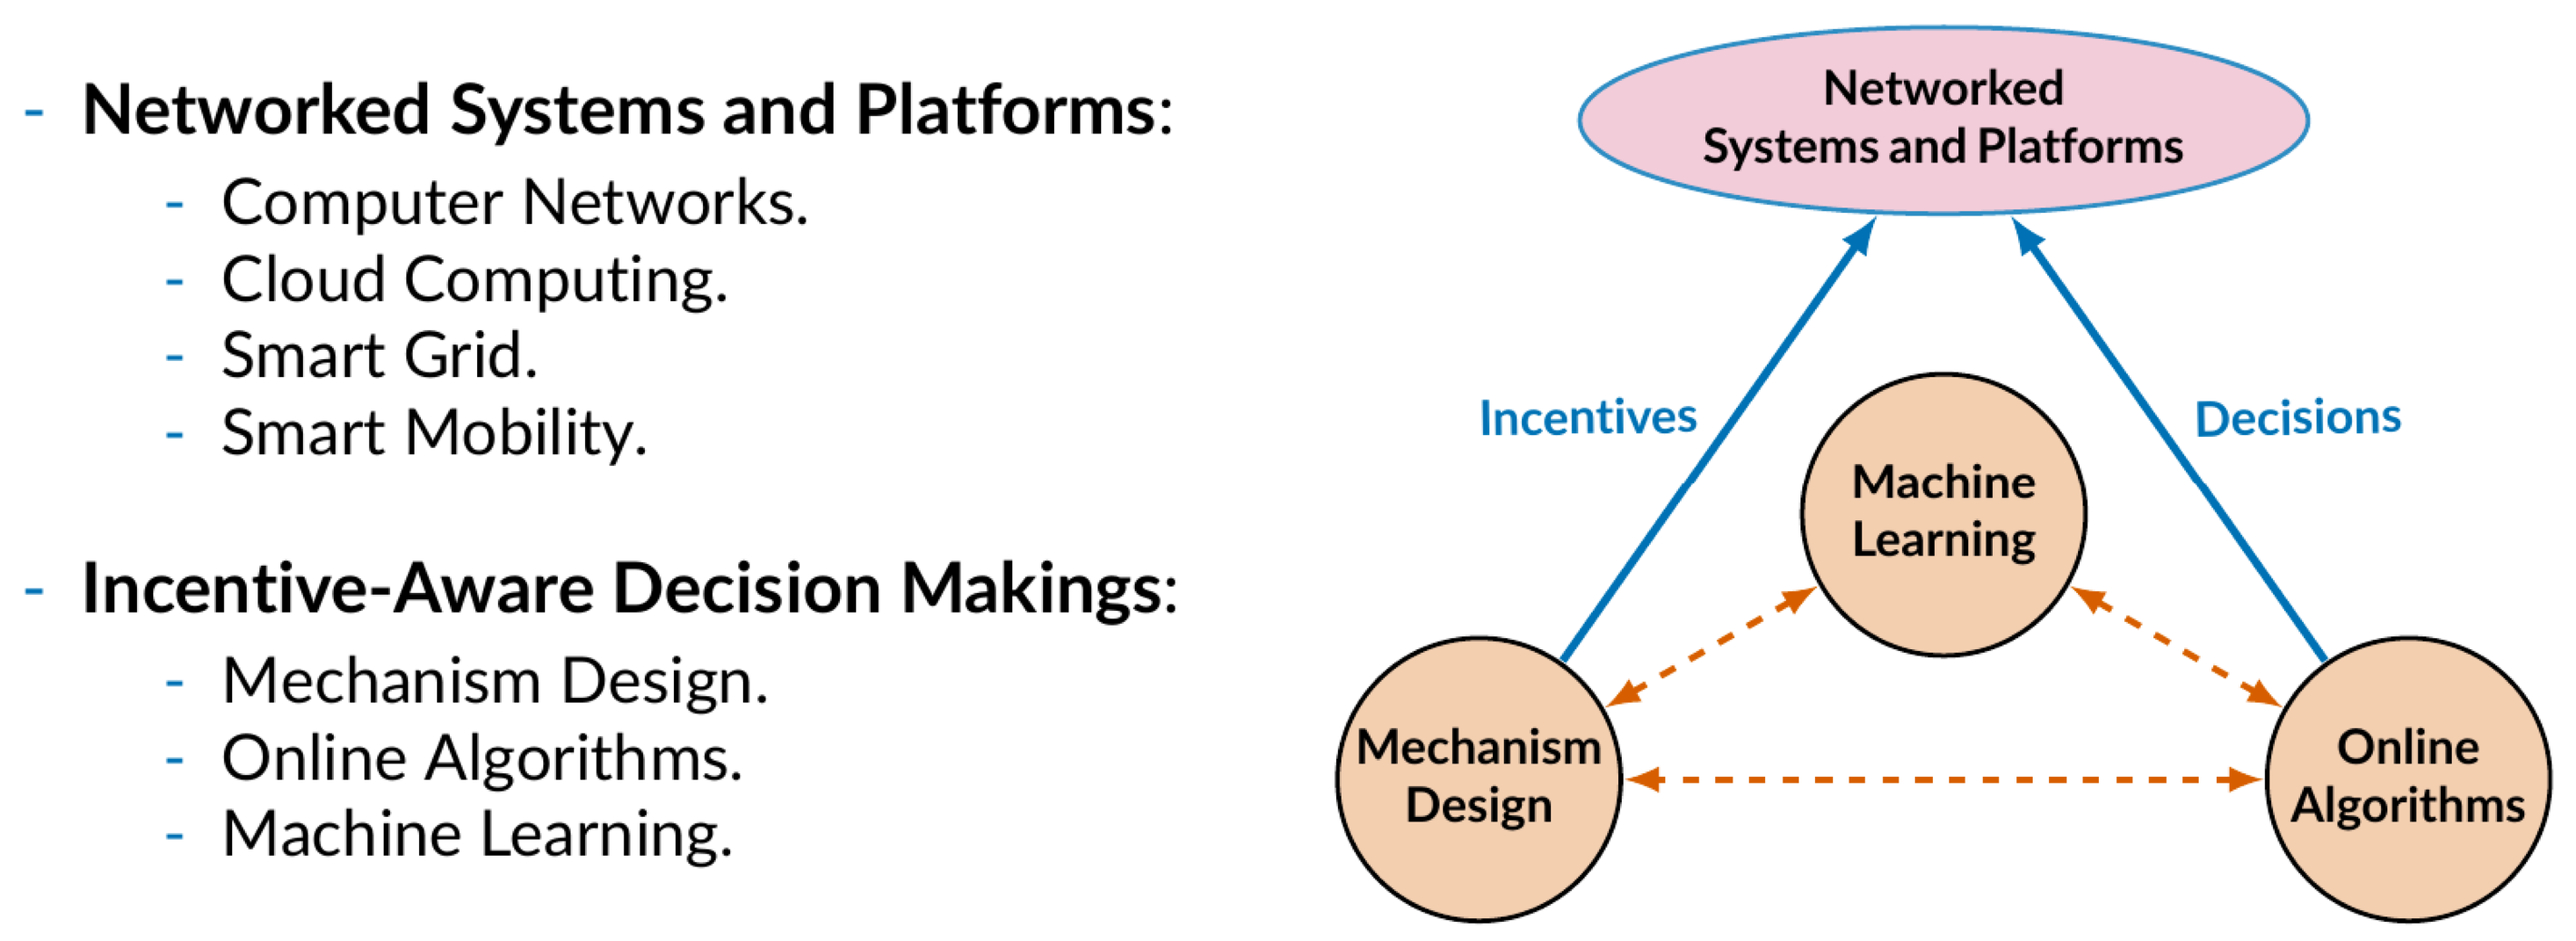
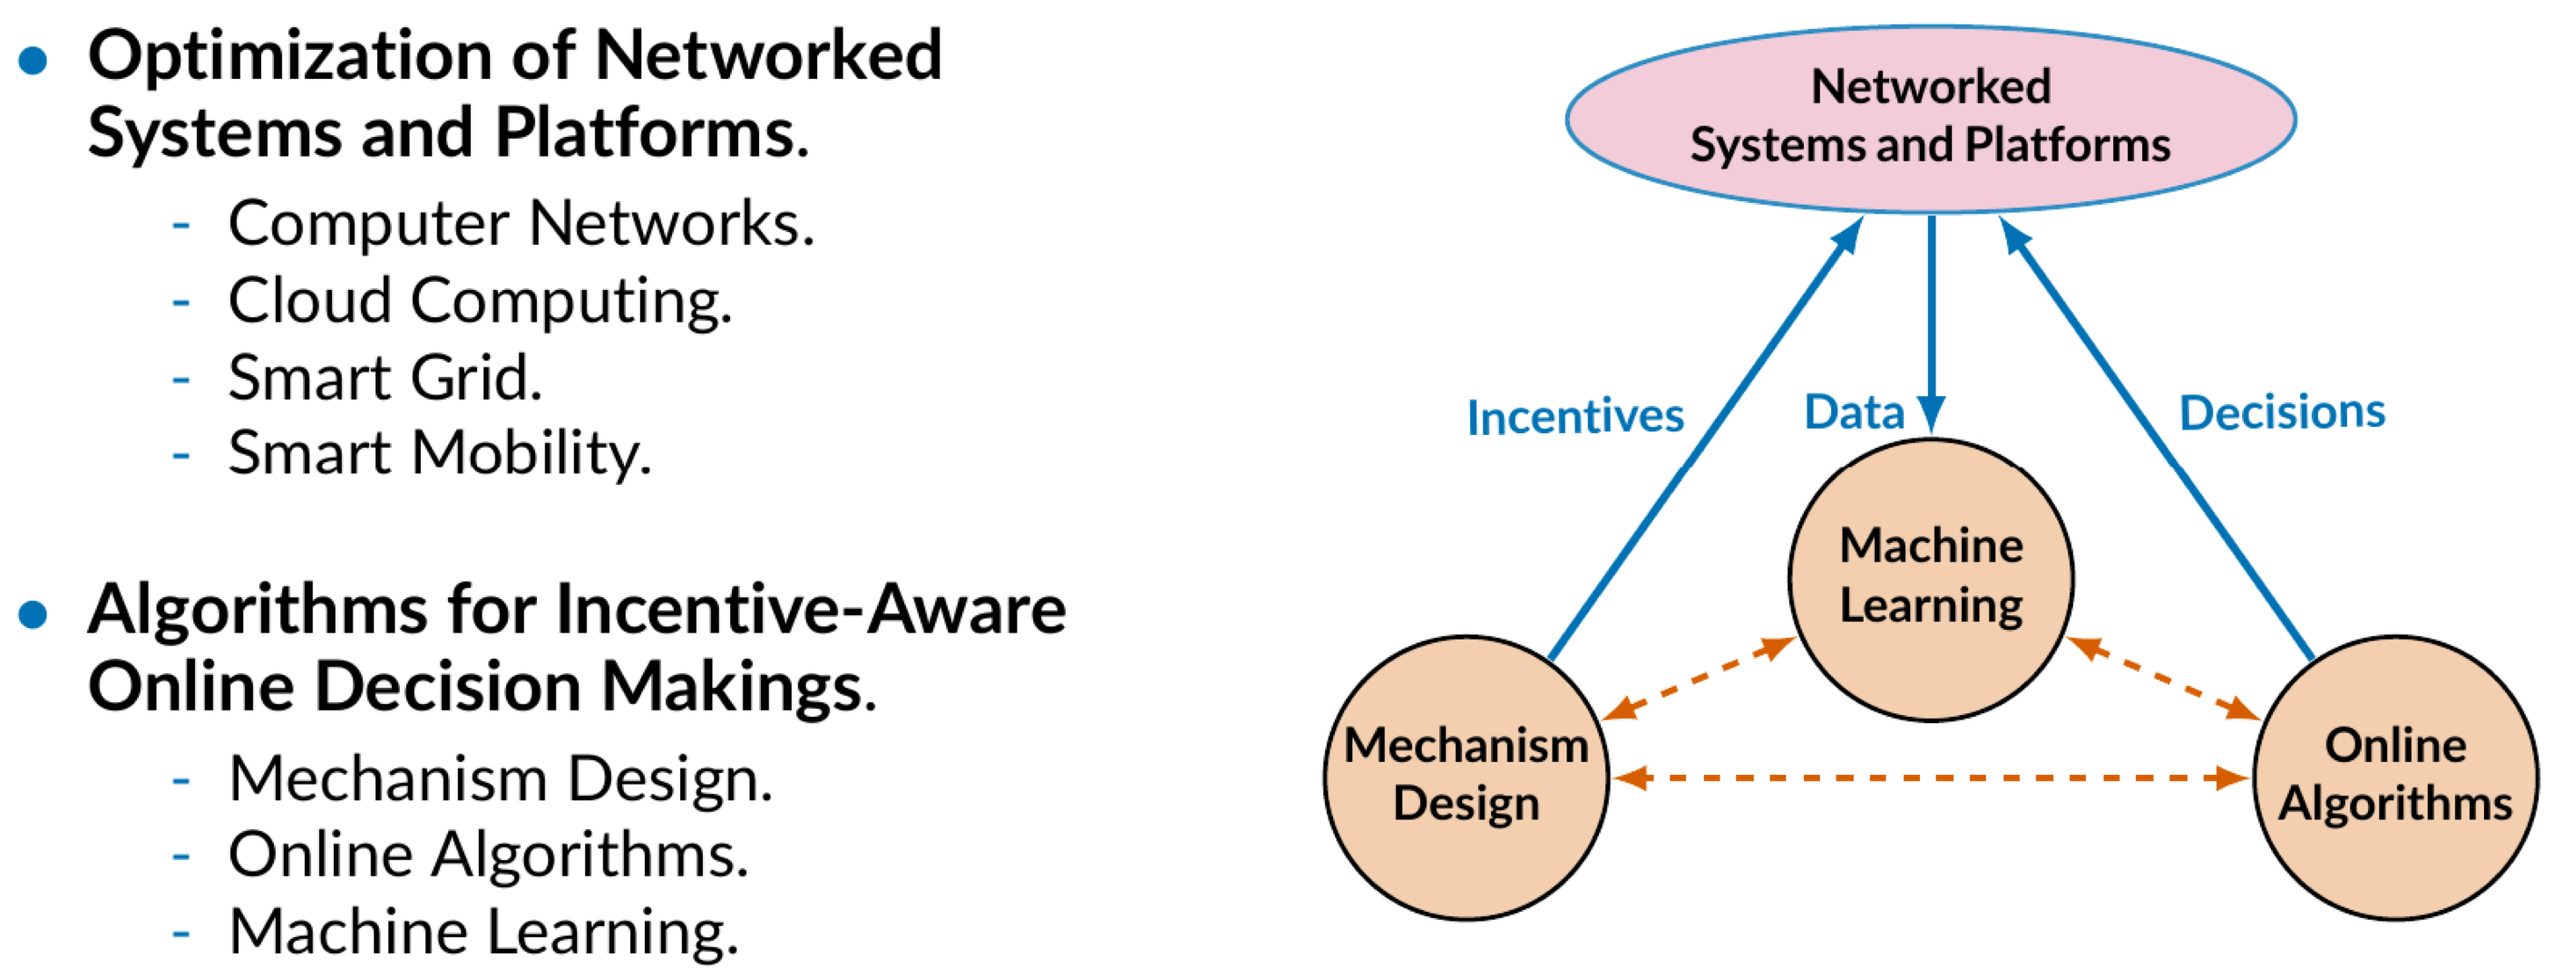
20191215

diff --git a/content/research/incentives.md b/content/research/incentives.md
@@ -5,10 +5,10 @@
 widget = "pages"  # See https://sourcethemes.com/academic/docs/page-builder/
 headless = true  # This file represents a page section.
 active = true  # Activate this widget? true/false
-weight = 10  # Order that this section will appear.
+weight = 20  # Order that this section will appear.
 
-title = "Incentive-Aware Decision Makings"
-subtitle = "Online Algorithms, Mechanism Design and Machine Learning"
+title = "Incentive-Aware Online Decision Makings"
+# subtitle = "Online Algorithms, Mechanism Design and Machine Learning"
 
 
 
@@ -17,7 +17,7 @@ subtitle = "Online Algorithms, Mechanism Design and Machine Learning"
   page_type = "publication"
   
   # Choose how much pages you would like to display (0 = all pages)
-  count = 3
+  count = 1
   
   # Choose how many pages you would like to offset by
   offset = 0
@@ -27,7 +27,7 @@ subtitle = "Online Algorithms, Mechanism Design and Machine Learning"
 
   # Filter posts by a taxonomy term.
   [content.filters]
-    tag = "Incentives"
+    tag = "NA"
     category = ""
     publication_type = ""
     exclude_featured = false
@@ -71,19 +71,20 @@ subtitle = "Online Algorithms, Mechanism Design and Machine Learning"
 # {{% alert note %}} 
 # Quickly discover relevant content by [filtering publications]({{< ref "/publication/_index.md" >}}).
 # {{% /alert %}}
+
+# Recent Publications:
 +++
 
 
 I study incentive-aware decision making based on online algorithms, mechanism design and machine learning. In particular, I focus on designing sequential decision making algorithms when there is no complete information of future. Moreover, such sequential decision making problems can be substaintially challenged if there exist multiple agents with self-interested behaviors. 
 
-{{< figure library="true" src="research_overview.png" title="" lightbox="true" >}}
+### [Online Mechanism Design](/tags/incentives)
+Mechanism design is concerned about designing a protocol that can implement a game. Online mechanism design sits at the intersection between mechanism design and online algorithm, where decisions must be made in an online fashion with incomplete future information. Posted-Price Mechanisms. Mechanism design is concerned about designing a protocol that can implement a game. Online mechanism design sits at the intersection between mechanism design and online algorithm, where decisions must be made in an online fashion with incomplete future information. Online Combinatorial Auctions. Mechanism design is concerned about designing a protocol that can implement a game. Online mechanism design sits at the intersection between mechanism design and online algorithm, where decisions must be made in an online fashion with incomplete future information.
 
-- **Online Mechanism Design**. Mechanism design is concerned about designing a protocol that can implement a game. Online mechanism design sits at the intersection between mechanism design and online algorithm, where decisions must be made in an online fashion with incomplete future information. Posted-Price Mechanisms. Mechanism design is concerned about designing a protocol that can implement a game. Online mechanism design sits at the intersection between mechanism design and online algorithm, where decisions must be made in an online fashion with incomplete future information. Online Combinatorial Auctions. Mechanism design is concerned about designing a protocol that can implement a game. Online mechanism design sits at the intersection between mechanism design and online algorithm, where decisions must be made in an online fashion with incomplete future information.
+### [Auctions via Online Learning](/tags/incentives)
+Mechanism design is concerned about designing a protocol that can implement a game. Online mechanism design sits at the intersection between mechanism design and online algorithm, where decisions must be made in an online fashion with incomplete future information. 
 
-- **Auctions via Online Learning**. Mechanism design is concerned about designing a protocol that can implement a game. Online mechanism design sits at the intersection between mechanism design and online algorithm, where decisions must be made in an online fashion with incomplete future information. 
-
-- **Multi-Agent Reinforcement Learning**. Reinforcement learning is concerned about making sequential decisions under uncertainty based on the theory of Markov Decision Process. For 
+### [Multi-Agent Reinforcement Learning](/tags/incentives)
+Reinforcement learning is concerned about making sequential decisions under uncertainty based on the theory of Markov Decision Process. For 
 
 {{< figure library="true" src="competitive_ratio.png" title="Achieveable regions of competitive ratios of the proposed online algorithm under three cases" lightbox="true" >}}
-
-**Recent Publications**:

diff --git a/content/research/applications.md b/content/research/applications.md
@@ -5,10 +5,10 @@
 widget = "pages"  # See https://sourcethemes.com/academic/docs/page-builder/
 headless = true  # This file represents a page section.
 active = true  # Activate this widget? true/false
-weight = 20  # Order that this section will appear.
+weight = 10  # Order that this section will appear.
 
 title = "Networked Systems and Platforms"
-subtitle = "Computer Networks, Cloud Computing, Smart Grid and Smart Mobility"
+# subtitle = "Computer Networks, Cloud Computing, Smart Grid and Smart Mobility"
 
 
 
@@ -27,7 +27,7 @@ subtitle = "Computer Networks, Cloud Computing, Smart Grid and Smart Mobility"
 
   # Filter posts by a taxonomy term.
   [content.filters]
-    tag = "Communication Networks"
+    tag = ""
     category = ""
     publication_type = ""
     exclude_featured = false
@@ -48,7 +48,7 @@ subtitle = "Computer Networks, Cloud Computing, Smart Grid and Smart Mobility"
   #   Any HTML color name or Hex value is valid.
     
   # Background color.
-  # color = "navy"
+  # color = "white"
   
   # Background gradient.
   # gradient_start = "DeepSkyBlue"
@@ -75,14 +75,26 @@ subtitle = "Computer Networks, Cloud Computing, Smart Grid and Smart Mobility"
 
 My research centers around resource allocation and scheduling in networked systems and platforms, where self-interested agents may appear sequentially, interact and possibly pursue conflicting objectives in the presence of dynamics, ranging from network connectivity to resource availability. Typical examples of such systems include:
 
-- **Computer Networks**: the computer and communication networks have 
+### [Computer Networks](/tags/networking)
+
+The computer and communication networks have 
 
 {{< figure library="true" src="network_routing.png" title="A caption" lightbox="true" >}}
 
-- **Cloud Computing**: placing computing-intensive tasks at a centralized cloud has been proven not only efficient in the computational point of view, but also ecconomically. 
+### [Cloud Computing](/tags/cloud-computing)
 
-- **Smart Grid**: the power grid is undergoing a dramatic transformation...
+Placing computing-intensive tasks at a centralized cloud has been proven not only efficient in the computational point of view, but also ecconomically. 
 
-- **Smart Mobility**: the power grid is undergoing a dramatic transformation...
 
-**Recent Publications**:
+### [Smart Grid](/tags/smart-grid)
+
+The power grid is undergoing a dramatic transformation...
+
+
+### [Smart Mobility](/tags/networking)
+
+The power grid is undergoing a dramatic transformation...
+
+{{< figure library="true" src="three_layer_smart_cities.png" title="A caption" lightbox="true" >}}
+
+## Recent Publications:

diff --git a/content/talk/CASCON_2018/index.md b/content/talk/CASCON_2018/index.md
@@ -1,0 +1,71 @@
+---
+title: "Enabling Intelligent Decision Making in Smart Cities"
+event: XXX XXX XXX
+event_url: https://xxxx.org
+
+location: XXX University, XXX, XXX
+address:
+  street: 360 XXX XXX
+  city: XXX
+  region: XXX
+  postcode: 'XXXX'
+  country: XXX XXX
+
+summary: An example talk using Academic's Markdown slides feature.
+abstract: "Lorem ipsum dolor sit amet, consectetur adipiscing elit. Duis posuere tellusac convallis placerat. Proin tincidunt magna sed ex sollicitudin condimentum. Sed ac faucibus dolor, scelerisque sollicitudin nisi. Cras purus urna, suscipit quis sapien eu, pulvinar tempor diam."
+
+# Talk start and end times.
+#   End time can optionally be hidden by prefixing the line with `#`.
+date: "2018-08-06T13:00:00Z"
+date_end: "2018-08-07T15:00:00Z"
+all_day: false
+
+# Schedule page publish date (NOT talk date).
+publishDate: "2018-09-01T00:00:00Z"
+
+authors: [Xiaoqi Tan]
+tags: []
+
+# Is this a featured talk? (true/false)
+featured: true
+
+image:
+  caption: 'Image credit: [**Unsplash**](https://unsplash.com/photos/bzdhc5b3Bxs)'
+  focal_point: Right
+
+links:
+url_code: ""
+url_pdf: "https://xiaoqitan.org/document/slides/"
+url_slides: "https://xiaoqitan.org/document/slides/"
+url_video: "https://xiaoqitan.org/document/slides/"
+
+# Markdown Slides (optional).
+#   Associate this talk with Markdown slides.
+#   Simply enter your slide deck's filename without extension.
+#   E.g. `slides = "example-slides"` references `content/slides/example-slides.md`.
+#   Otherwise, set `slides = ""`.
+slides: example
+
+# Projects (optional).
+#   Associate this post with one or more of your projects.
+#   Simply enter your project's folder or file name without extension.
+#   E.g. `projects = ["internal-project"]` references `content/project/deep-learning/index.md`.
+#   Otherwise, set `projects = []`.
+projects:
+- internal-project
+
+# Enable math on this page?
+math: true
+---
+
+{{% alert note %}}
+Click on the **Slides** button above to view the built-in slides feature.
+{{% /alert %}}
+
+Slides can be added in a few ways:
+
+- **Create** slides using Academic's [*Slides*](https://sourcethemes.com/academic/docs/managing-content/#create-slides) feature and link using `slides` parameter in the front matter of the talk file
+- **Upload** an existing slide deck to `static/` and link using `url_slides` parameter in the front matter of the talk file
+- **Embed** your slides (e.g. Google Slides) or presentation video on this page using [shortcodes](https://sourcethemes.com/academic/docs/writing-markdown-latex/).
+
+Further talk details can easily be added to this page using *Markdown* and $\rm \LaTeX$ math code.

diff --git a/content/research/slider.md b/content/research/slider.md
@@ -2,7 +2,7 @@
 # Slider widget.
 widget = "slider"  # See https://sourcethemes.com/academic/docs/page-builder/
 headless = true  # This file represents a page section.
-active = true  # Activate this widget? true/false
+active = false  # Activate this widget? true/false
 weight = 2  # Order that this section will appear.
 
 # Slide interval.
@@ -51,7 +51,16 @@ height = ""
 #  overlay_filter = 0 # Darken the image. Value in range 0-1.
 
 [[item]]
-  title = "**Incentive-Aware Online Decision Makings**"
+  title = "**Networked Systems and Platforms**"
+  # content = "Computer Networks, Cloud Computing, Smart Grid, and Smart Mobility."
+  align = "center"
+
+  overlay_color = "#333"  # An HTML color value.
+  overlay_img = "algorithms.jpg"  # Image path relative to your `static/img/` folder.
+  overlay_filter = 0.8 # Darken the image. Value in range 0-1.
+
+[[item]]
+  title = "**Online Mechanism Design**"
   # content = "Online Algorithms, Mechanism Design, and Machine Learning"
   align = "center"
 
@@ -60,7 +69,7 @@ height = ""
   overlay_filter = 0.8 # Darken the image. Value in range 0-1.
 
 [[item]]
-  title = "**Optimization of Networked Systems and Platforms**"
+  title = "**Online Auctions via Online Learning**"
   # content = "Communication Networks, Cloud Computing and Smart Grid"
   align = "center"  # Choose `center`, `left`, or `right`.
 
@@ -70,4 +79,14 @@ height = ""
   overlay_img = "networks.jpg"  # Image path relative to your `static/img/` folder.
   overlay_filter = 0.7  # Darken the image. Value in range 0-1.
 
+[[item]]
+  title = "**Multi-Agent Reinforcement Learning**"
+  # content = "Communication Networks, Cloud Computing and Smart Grid"
+  align = "center"  # Choose `center`, `left`, or `right`.
+
+  # Overlay a color or image (optional).
+  # Deactivate an option by commenting out the line, prefixing it with `#`.
+  overlay_color = "#666"  # An HTML color value.
+  overlay_img = "networks.jpg"  # Image path relative to your `static/img/` folder.
+  overlay_filter = 0.7  # Darken the image. Value in range 0-1.
 +++

diff --git a/content/authors/admin/_index.md b/content/authors/admin/_index.md
@@ -107,4 +107,4 @@ I am currently a Postdoctoral Fellow at the Dept. of Electrical & Computer Engin
 
 I received my Ph.D. degree in Electronic and Computer Engineering from [Hong Kong University of Science and Technology](https://www.ust.hk), advised by Prof. [Danny H.K. Tsang](https://eetsang.home.ece.ust.hk/). From Oct. 2015 to April 2016, I was also affiliated with the School of Engineering and Applied Science, [Harvard University](https://www.harvard.edu/), hosted by Prof. [Na (Lina) Li](https://nali.seas.harvard.edu/).
 
-I design [incentive-aware decisions](/research/#incentives) for resource allocation and scheduling in [networked systems and platforms](/research/#applications). The main application area of my research includes [computer networks](/tags/networking), [cloud computing](/tags/cloud-computing), [smart grid](/tags/smart-grid) and [smart mobility](/tags/smart-mobility).
+I design [incentive-aware online decisions](/research/#incentives) for the optimization of  [networked systems and platforms](/research/#applications) in the presence of self-interested agents and incomplete knowledge of future information. The main application area of my research includes [computer networks](/tags/networking), [cloud computing](/tags/cloud-computing), [smart grid](/tags/smart-grid) and [smart mobility](/tags/smart-mobility). 

diff --git a/content/research/overview.md b/content/research/overview.md
@@ -4,10 +4,10 @@
 
 widget = "pages"  # See https://sourcethemes.com/academic/docs/page-builder/
 headless = true  # This file represents a page section.
-active = false  # Activate this widget? true/false
+active = true  # Activate this widget? true/false
 weight = 5  # Order that this section will appear.
 
-title = "Research Summary"
+title = "Research Overview"
 # subtitle = "Online Optimization and Online Machine Learning"
 
 
@@ -17,7 +17,7 @@ title = "Research Summary"
   page_type = "publication"
   
   # Choose how much pages you would like to display (0 = all pages)
-  count = 2
+  count = 4
   
   # Choose how many pages you would like to offset by
   offset = 0
@@ -71,6 +71,16 @@ title = "Research Summary"
 # {{% alert note %}} 
 # Quickly discover relevant content by [filtering publications]({{< ref "/publication/_index.md" >}}).
 # {{% /alert %}}
-+++
 
-{{< figure library="true" src="research_overview.png" title="" lightbox="true" >}}
+# - **Optimization of Networked Systems and Platforms**
+#  - Computer Networks
+#  - Cloud Computing
+#  - Smart Grid
+#  - Smart Mobility
+# - **Algorithms for Incentive-Aware Online Decision Makings**
+#  - Mechanism Design
+#  - Online Algorithms
+#  - Machine Learning
++++
+ 
+{{< figure library="true" src="research_overview.png" title="" lightbox="true" >}} 
